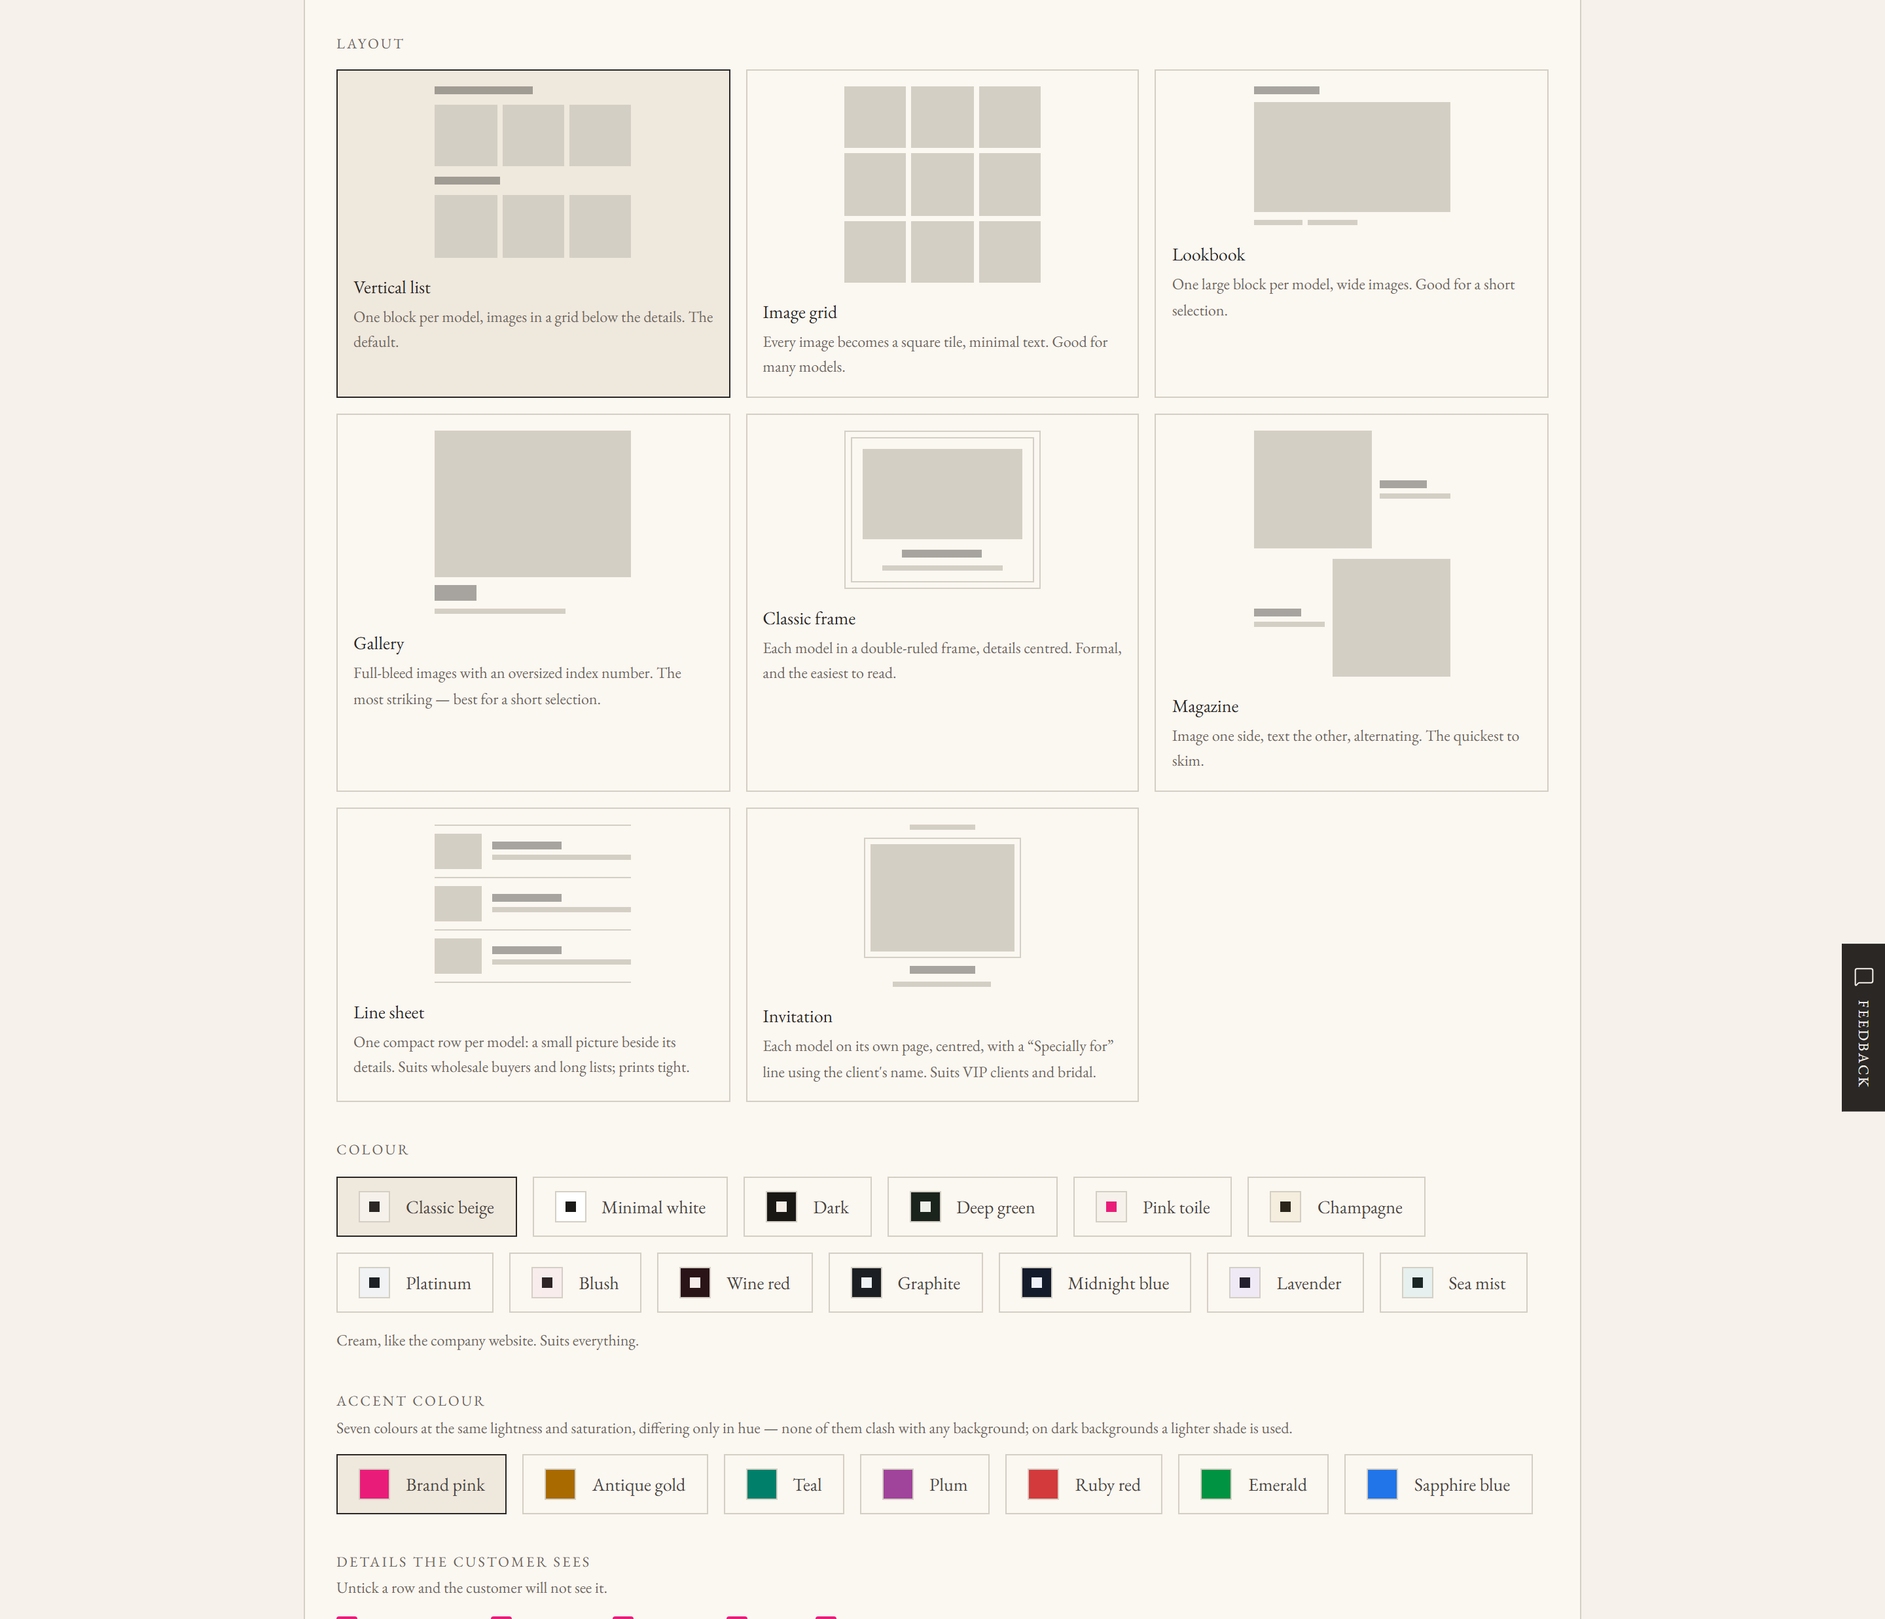
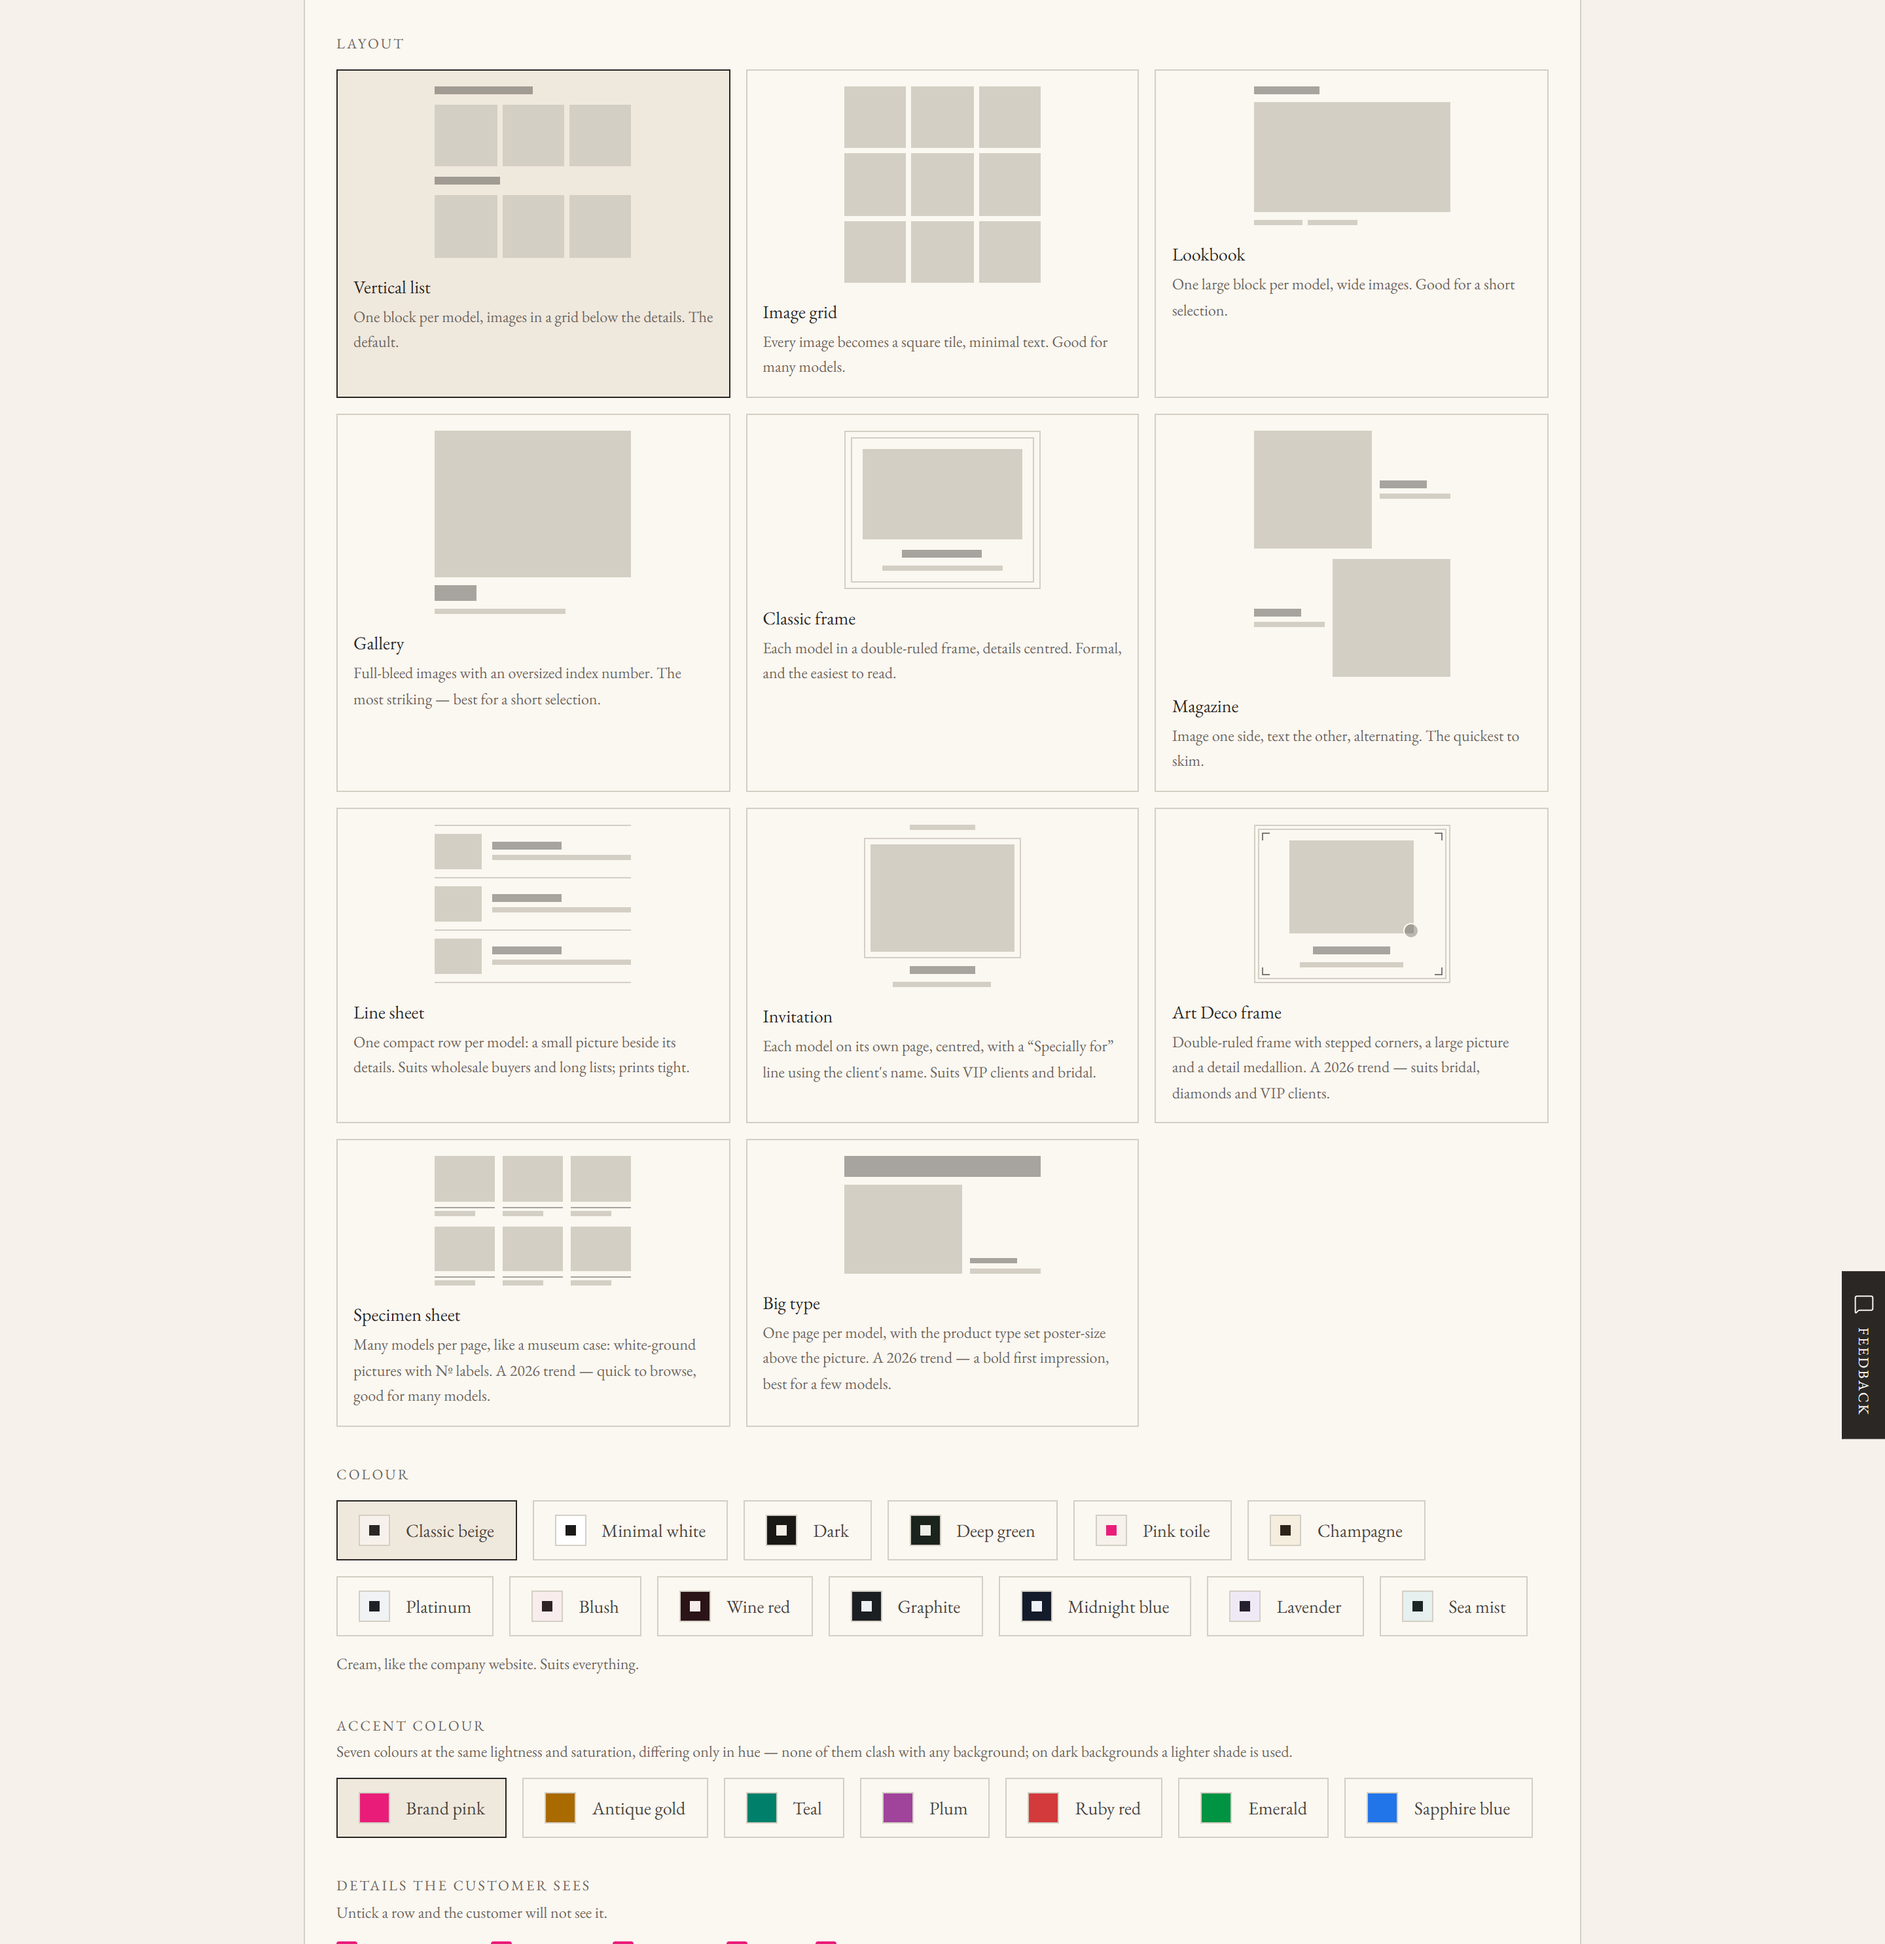
docs(hướng dẫn): mười một bố cục — Khung Art Deco, Thẻ tiêu bản, Chữ lớn
- Bước Bố cục liệt kê ba kiểu xu hướng 2026; bước Ảnh chính nói Chữ lớn dùng ảnh
  chính, Art Deco lấy ảnh thứ hai làm huy hiệu.
- Chụp lại ảnh bước Bố cục (vi/en); script tạm dùng khung nhìn cao hơn ở bước này.

diff --git a/src/messages/huong-dan.vi.ts b/src/messages/huong-dan.vi.ts
@@ -142,7 +142,7 @@ export const HUONG_DAN_VI = {
     ten: "Chọn bố cục, tông màu và màu nhấn",
     mo_ta: "Khung Kiểu trình bày quyết định khách thấy catalogue ra sao. Bấm vào ô nào là chọn ô đó.",
     chu: [
-      "Tám bố cục: Danh sách dọc (mặc định, dễ so sánh), Lưới ảnh (hợp nhiều mẫu), Lookbook và Triển lãm (ít mẫu, ảnh lớn), Khung cổ điển (dễ đọc thông số), Tạp chí (lướt nhanh), Bảng mẫu (khách sỉ, in gọn), Thư mời (mỗi mẫu một trang, cho khách VIP và đồ cưới).",
+      "Mười một bố cục: Danh sách dọc (mặc định, dễ so sánh), Lưới ảnh (hợp nhiều mẫu), Lookbook và Triển lãm (ít mẫu, ảnh lớn), Khung cổ điển (dễ đọc thông số), Tạp chí (lướt nhanh), Bảng mẫu (khách sỉ, in gọn), Thư mời (mỗi mẫu một trang, cho khách VIP và đồ cưới), và ba kiểu xu hướng 2026: Khung Art Deco (nhẫn cưới, kim cương), Thẻ tiêu bản (nhiều mẫu một trang), Chữ lớn (ít mẫu, mở đầu ấn tượng).",
       "Mười ba tông màu nền. Nhiều tông tự chuyển màu nhấn cho hợp — ví dụ Champagne sang Vàng đồng, Than chì sang Xanh sapphire — vẫn đổi lại được.",
       "Dòng gợi ý cho biết tông đang chọn hợp với nhóm sản phẩm nào.",
       "Màu nhấn: màu của logo HUNG PHAT, số thứ tự và nút Gọi trên trang khách. Trên nền tối, chữ màu nhấn tự sáng hơn cho dễ đọc.",
@@ -230,7 +230,7 @@ export const HUONG_DAN_VI = {
     chu: [
       "Số ảnh đang giữ trên tổng số ảnh của mẫu.",
       "Bỏ tích (hoặc bấm vào ảnh) để bỏ ảnh đó khỏi catalogue; ảnh bị bỏ mờ đi. Tích lại để lấy lại.",
-      "Ảnh chính: ảnh được tích đầu tiên. Đây là ảnh lớn ở Lookbook, Triển lãm và Tạp chí; Khung cổ điển dùng hai ảnh đầu.",
+      "Ảnh chính: ảnh được tích đầu tiên. Đây là ảnh lớn ở Lookbook, Triển lãm, Tạp chí và Chữ lớn; Khung cổ điển dùng hai ảnh đầu, Khung Art Deco lấy ảnh thứ hai làm huy hiệu nhỏ.",
       "Đặt ảnh này làm ảnh chính: ảnh nhảy lên đầu. Ảnh đang bỏ tích sẽ được tích lại.",
       "Đưa ảnh lên trước hoặc ra sau một bậc. Trên máy tính cũng kéo thả ảnh được, bằng tay cầm sáu chấm.",
     ],

diff --git a/src/messages/huong-dan.en.ts b/src/messages/huong-dan.en.ts
@@ -141,7 +141,7 @@ export const HUONG_DAN_EN: BoChu["huong_dan"] = {
     ten: "Choose layout, colour and accent",
     mo_ta: "The Presentation box decides how your customer sees the catalogue. Click an option to choose it.",
     chu: [
-      "Eight layouts: Vertical list (default, easy to compare), Image grid (many models), Lookbook and Gallery (few models, big pictures), Classic frame (easiest to read details), Magazine (quickest to skim), Line sheet (wholesale, prints tight), Invitation (one page per model, for VIP clients and bridal).",
+      "Eleven layouts: Vertical list (default, easy to compare), Image grid (many models), Lookbook and Gallery (few models, big pictures), Classic frame (easiest to read details), Magazine (quickest to skim), Line sheet (wholesale, prints tight), Invitation (one page per model, for VIP clients and bridal), plus three 2026 trends: Art Deco frame (bridal, diamonds), Specimen sheet (many models per page), Big type (few models, bold opening).",
       "Thirteen background colours. Many switch the accent to match — Champagne to Antique gold, Graphite to Sapphire blue, for example — and you can still change it back.",
       "The hint line says which kind of jewellery the chosen colour suits.",
       "Accent colour: the colour of the HUNG PHAT logo, the numbers and the Call button on the customer page. On dark backgrounds the accent text turns lighter so it stays easy to read.",
@@ -229,7 +229,7 @@ export const HUONG_DAN_EN: BoChu["huong_dan"] = {
     chu: [
       "Images kept out of the model's total.",
       "Untick (or click the picture) to leave it out; dropped images fade. Tick again to bring it back.",
-      "Main image: the first ticked image. It is the big picture in Lookbook, Gallery and Magazine; Classic frame uses the first two.",
+      "Main image: the first ticked image. It is the big picture in Lookbook, Gallery, Magazine and Big type; Classic frame uses the first two, and Art Deco frame shows the second one as a small medallion.",
       "Make this the main image: it jumps to the front. An unticked image is ticked again.",
       "Move the image one place earlier or later. On a computer you can also drag it by the six-dot handle.",
     ],
